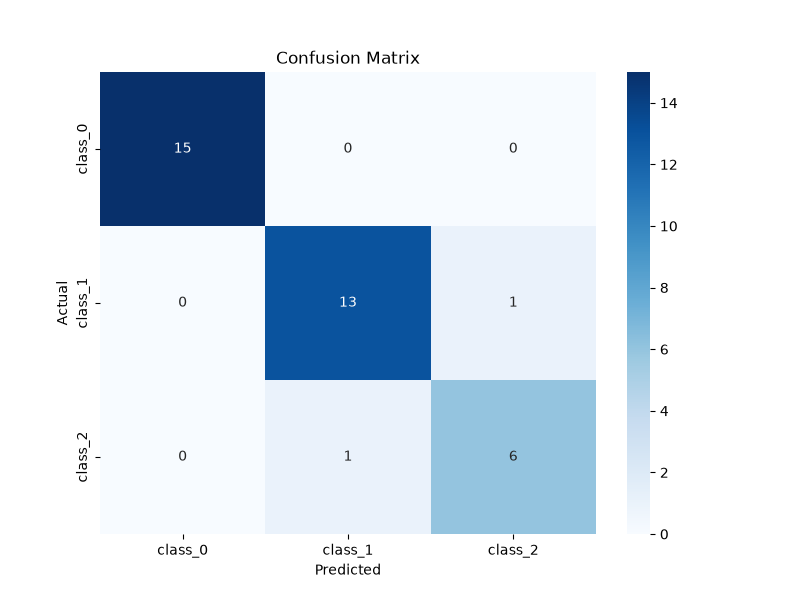
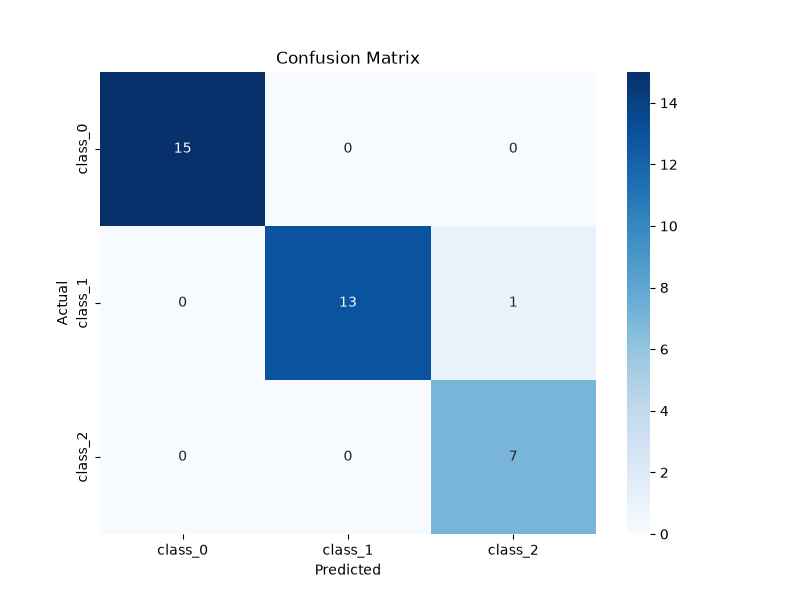
added dagshub remote server to track metrices and params.

Changed region(s): [[0.5312, 0.63, 0.75, 0.9]]

diff --git a/src/file2.py b/src/file2.py
@@ -1,7 +1,12 @@
 import mlflow
 import mlflow.sklearn
 from matplotlib import pyplot as plt
-mlflow.set_tracking_uri('http://localhost:5000')
+# dagshub remote tracking uri
+import dagshub
+dagshub.init(repo_owner='satyagudu1146', repo_name='MLFLOW', mlflow=True)
+mlflow.set_tracking_uri("https://dagshub.com/satyagudu1146/MLFLOW.mlflow")
+
+
 import seaborn as sns
 from sklearn.ensemble import RandomForestClassifier
 from sklearn.datasets import load_wine